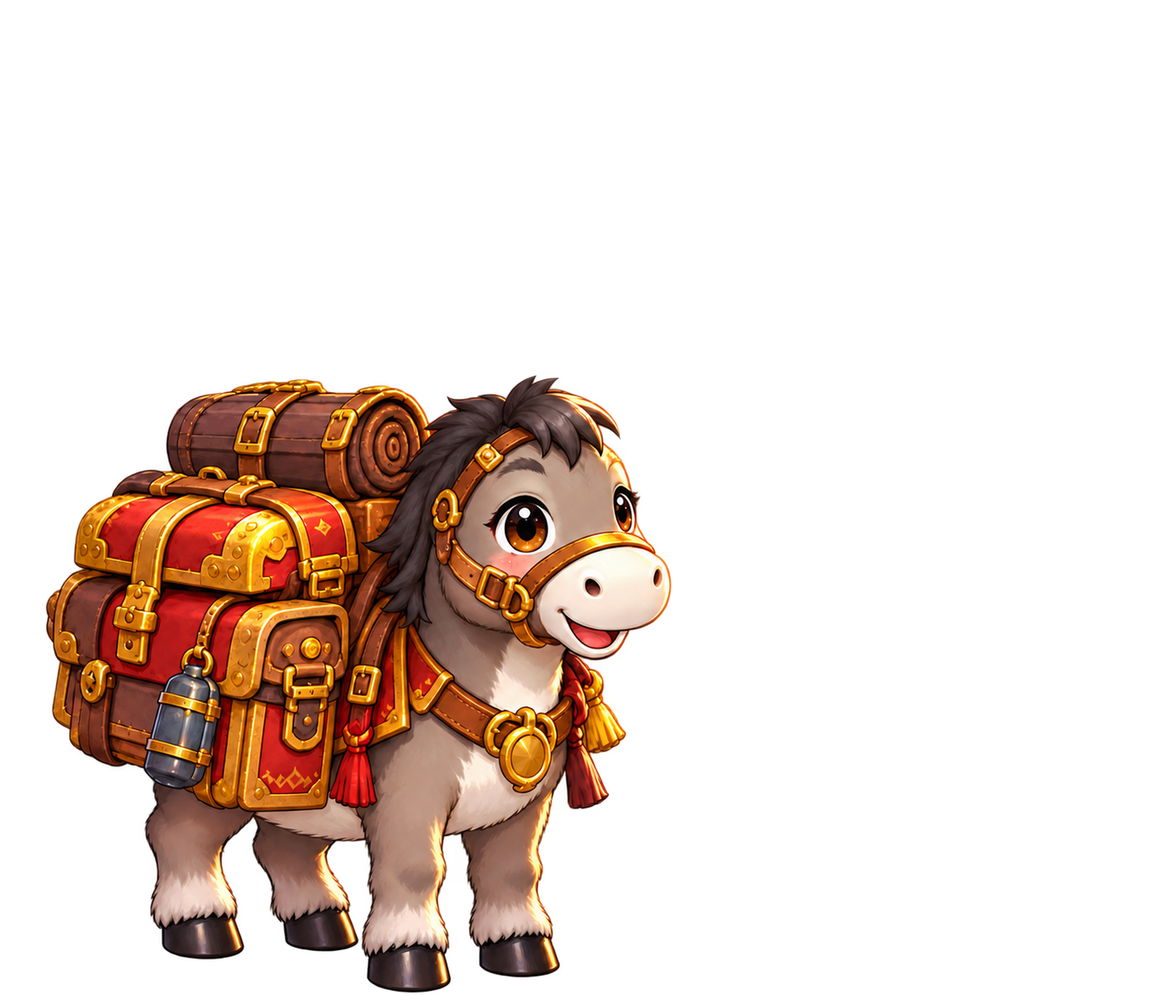
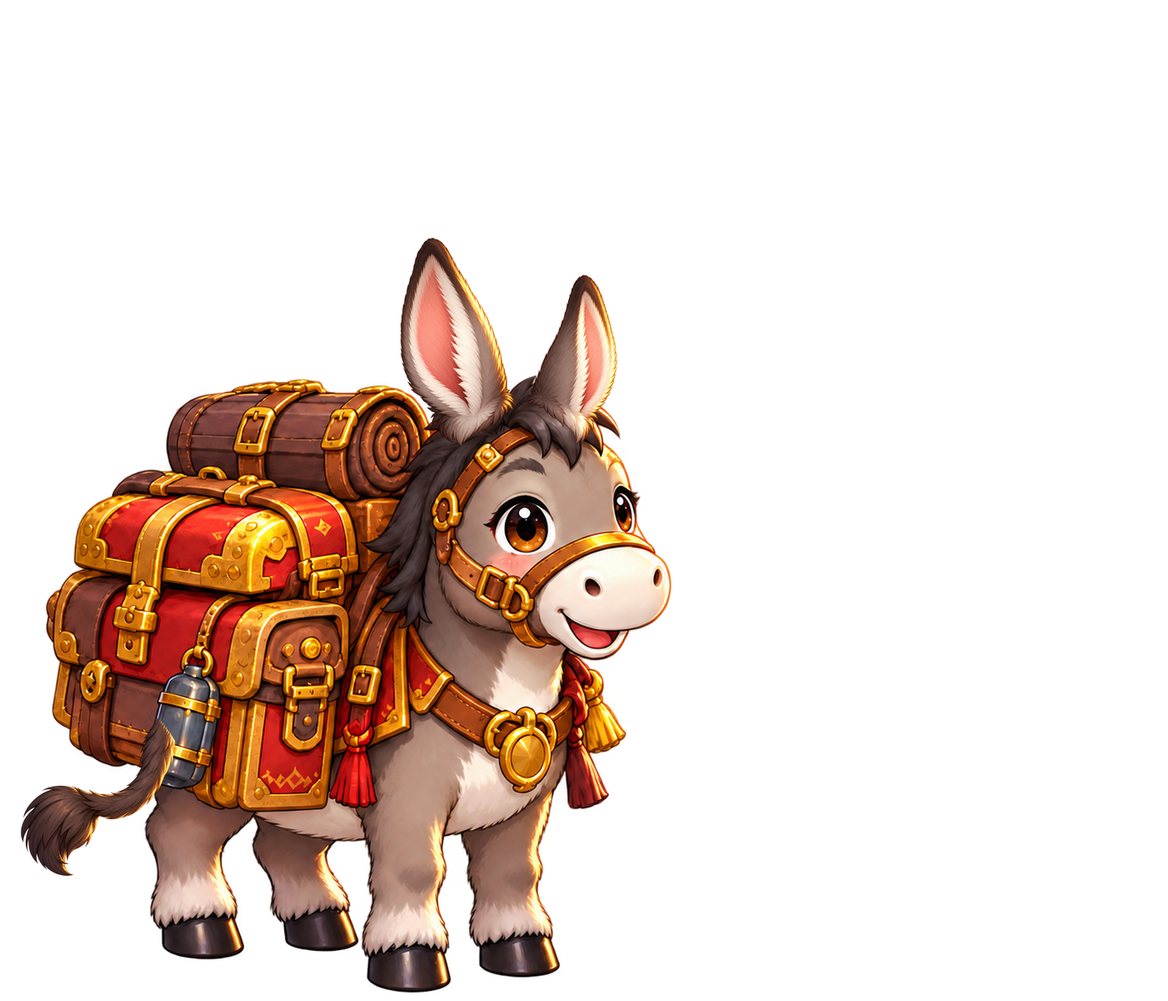
Show lobby keepers whole, add floor shadows and polished name plates
Keepers and animals are now one breathing figure each: the cut-out arms
looked broken when they turned. The forge loses its flickering fire.
Every station casts a blurred shadow of its outline plus a contact
shadow, name plates become gold-framed blue enamel, and an optional
tileable floor.webp can replace the blurry painted floor.

Claude-Session: https://claude.ai/code/session_01AABfKSSStXUw7TeHMfREWi

Changed region(s): [[0.3379, 0.2467, 0.5529, 0.4625], [0.0, 0.7092, 0.1536, 0.8942]]

diff --git a/src/game/lobbyWorld.ts b/src/game/lobbyWorld.ts
@@ -23,43 +23,48 @@ const BRONZE:Theme={glow:'#ff8a3d',core:'#ffe0c2',metal:['#ffd9a8','#d08a4a','#7
 /**
  * Stations on the plaza. Each one is a folder in /assets/lobby/<dir>/ of layers
  * exported on the SAME transparent canvas (feet at the bottom centre), like PSD
- * layers, drawn in order. Code moves each layer around its pivot (fractions of
- * the canvas), cut-out style: breathe = whole-body breathing, nod = head,
- * swing = hammer strike, wave = arm, sway = tail/ears/cloth, bob = floating
- * piece, blink = eyelids flashed briefly, flicker = fire. A missing layer is
+ * layers, drawn in order. Keepers and animals are whole figures that only
+ * breathe (moving limbs looked broken, 17/10); props may sway, bob or pulse around their pivot (fractions of the canvas). A missing layer is
  * skipped; with no layer at all the single `<dir>.png` is drawn breathing.
+ * Every station casts a shadow of its own outline onto the floor.
  *
  * Podiums carry `rank` and `stand`, the point on the canvas where the ranked
  * player's feet go (see LobbyWorld.podiums()).
  */
-type Motion='still'|'breathe'|'nod'|'swing'|'wave'|'sway'|'bob'|'blink'|'flicker'|'pulse';
+type Motion='still'|'breathe'|'sway'|'bob'|'pulse';
 type Layer={name:string;motion:Motion;pivot?:[number,number];period?:number;amount?:number;phase?:number};
 type Fallback={kind:'podium'|'gate';portal:Portal}|{kind:'keeper';outfit:'surfer'|'executive';hat:string;facing:1|-1};
-export type Station={id:string;title:string;dir:string;x:number;y:number;height:number;layers:Layer[];action?:LobbyAction;rank?:1|2|3;stand?:[number,number];glow?:Portal;spark?:[number,number];fallback:Fallback};
-const STRIKE=1500;
-// Pivots and spark points were measured on Codex's layers (17/10): canvases are
+export type Station={id:string;title:string;dir:string;x:number;y:number;height:number;layers:Layer[];action?:LobbyAction;rank?:1|2|3;stand?:[number,number];glow?:Portal;shadows?:Shadow[];fallback:Fallback};
+/** Contact shadow where a station touches the floor: centre x/y, radius x/y, as fractions of the canvas. */
+type Shadow=[number,number,number,number];
+// Pivots were measured on Codex's layers (17/10): canvases are
 // 1400×1200 for keepers and 1200×1400 for the gate and podiums.
 export const LOBBY_STATIONS:Station[]=[
- {id:'shop',title:'Ateliê',dir:'npc-loja',x:560,y:626,height:300,action:'shop',fallback:{kind:'keeper',outfit:'surfer',hat:'hat-tide',facing:1},layers:[
-  {name:'barraca',motion:'still'},{name:'toldo',motion:'sway',pivot:[.5,.13],period:2600,amount:.01},
-  {name:'corpo',motion:'breathe'},{name:'braco',motion:'wave',pivot:[.58,.67],period:1600,amount:.2},
-  {name:'cabeca',motion:'nod',pivot:[.5,.66],period:2800,amount:.035},{name:'olhos',motion:'blink'}]},
- {id:'storage',title:'Guarda-volumes',dir:'npc-armazem',x:1220,y:628,height:240,action:'storage',fallback:{kind:'keeper',outfit:'surfer',hat:'hat-cap',facing:1},layers:[
-  {name:'burro',motion:'breathe',period:3400},{name:'rabo',motion:'sway',pivot:[.14,.74],period:900,amount:.22},{name:'orelhas',motion:'sway',pivot:[.43,.44],period:2600,amount:.06},
-  {name:'corpo',motion:'breathe'},{name:'braco',motion:'wave',pivot:[.8,.56],period:1300,amount:.28},{name:'cabeca',motion:'nod',pivot:[.7,.5],period:2600,amount:.04},{name:'olhos',motion:'blink',phase:1300}]},
+ {id:'shop',title:'Ateliê',dir:'npc-loja',x:560,y:626,height:300,action:'shop',shadows:[[.5,.95,.5,.05],[.51,.99,.09,.02]],fallback:{kind:'keeper',outfit:'surfer',hat:'hat-tide',facing:1},layers:[
+  {name:'barraca',motion:'still'},{name:'npc',motion:'breathe'}]},
+ {id:'storage',title:'Guarda-volumes',dir:'npc-armazem',x:1220,y:628,height:240,action:'storage',shadows:[[.31,.99,.21,.03],[.73,.99,.12,.025]],fallback:{kind:'keeper',outfit:'surfer',hat:'hat-cap',facing:1},layers:[
+  {name:'burro',motion:'breathe',period:3400},{name:'npc',motion:'breathe'}]},
  // All podium canvases share one scale, so they share one height; `stand` is the centre of each top.
  ...([[2,2040,616,[.5,.66],SILVER],[1,2304,608,[.5,.49],GOLD],[3,2568,620,[.5,.75],BRONZE]] as const).map(([rank,x,y,stand,theme]):Station=>({
-  id:`podium-${rank}`,title:`${rank}º lugar`,dir:`podio-${rank}`,x,y,height:300,rank,stand:[stand[0],stand[1]],glow:{x,y:y-300*(1-stand[1])+40,scale:.8,theme},
+  id:`podium-${rank}`,title:`${rank}º lugar`,dir:`podio-${rank}`,x,y,height:300,rank,shadows:[[.5,.985,.4,.035]],stand:[stand[0],stand[1]],glow:{x,y:y-300*(1-stand[1])+40,scale:.8,theme},
   fallback:{kind:'podium',portal:{x,y,scale:1,theme}},layers:[{name:'base',motion:'still'},{name:'brilho',motion:'pulse'}]})),
- {id:'arena',title:'Arena PvP',dir:'portal-arena',x:2980,y:618,height:360,action:'arena',glow:{x:2980,y:600,scale:1.1,theme:BLUE},fallback:{kind:'gate',portal:{x:2980,y:600,scale:1.1,theme:BLUE,wings:true}},layers:[
+ {id:'arena',title:'Arena PvP',dir:'portal-arena',x:2980,y:618,height:360,action:'arena',shadows:[[.5,.985,.44,.04]],glow:{x:2980,y:600,scale:1.1,theme:BLUE},fallback:{kind:'gate',portal:{x:2980,y:600,scale:1.1,theme:BLUE,wings:true}},layers:[
   {name:'base',motion:'still'},{name:'asas',motion:'sway',pivot:[.5,.45],period:1700,amount:.03},{name:'calice',motion:'bob',period:2400,amount:8}]},
- {id:'forge',title:'Ferreiro',dir:'npc-ferreiro',x:3720,y:632,height:300,action:'forge',spark:[.2,.67],fallback:{kind:'keeper',outfit:'executive',hat:'hat-cap',facing:-1},layers:[
-  {name:'barraca',motion:'still'},{name:'fogo',motion:'flicker',pivot:[.81,.63]},
-  {name:'corpo',motion:'breathe'},{name:'cabeca',motion:'nod',pivot:[.52,.55],period:STRIKE,amount:.03},{name:'braco',motion:'swing',pivot:[.42,.64],period:STRIKE},{name:'olhos',motion:'blink',phase:700}]},
+ {id:'forge',title:'Ferreiro',dir:'npc-ferreiro',x:3720,y:632,height:300,action:'forge',shadows:[[.5,.95,.5,.05],[.48,.99,.15,.025]],fallback:{kind:'keeper',outfit:'executive',hat:'hat-cap',facing:-1},layers:[
+  {name:'barraca',motion:'still'},
+  {name:'npc',motion:'breathe'}]},
 ];
-/** Hammer arm, drawn raised: a small wind-up, a fast blow down onto the anvil, a short hold, then back. */
-const BLOW=.58;
-function strike(t:number,period:number){const k=(t%period)/period;if(k<.5)return .15*Math.sin(k/.5*Math.PI/2);if(k<BLOW)return .15-(k-.5)/(BLOW-.5)*1.05;if(k<.68)return -.9;return -.9*(1-(k-.68)/.32);}
+
+/** Where the painted floor starts under the balustrade's curb; floor tile width, its depth at the bottom (fraction of width) and at the far edge (fraction of that). */
+const FLOOR_TOP=548,FLOOR_TILE=300,FLOOR_NEAR=.62,FLOOR_FAR=.3;
+/** Cast shadows lie on the floor squashed to this height and lean left by CAST_LEAN per unit of height. */
+const CAST_SQUASH=.22,CAST_LEAN=.55,CAST_PAD=.06;
+/** Soft oval shadow on the plaza floor, darkest under the middle. */
+function groundShadow(c:CanvasRenderingContext2D,x:number,y:number,rx:number,ry:number){
+ c.save();c.translate(x,y);c.scale(1,ry/rx);
+ const g=c.createRadialGradient(0,0,0,0,0,rx);g.addColorStop(0,'rgba(60,40,20,.55)');g.addColorStop(.6,'rgba(60,40,20,.34)');g.addColorStop(1,'rgba(60,40,20,0)');
+ c.fillStyle=g;c.beginPath();c.arc(0,0,rx,0,Math.PI*2);c.fill();c.restore();
+}
 
 export interface LobbySprite {y:number;draw:(c:CanvasRenderingContext2D)=>void;}
 
@@ -327,10 +332,13 @@ export class LobbyWorld {
  private sky:HTMLCanvasElement;private world:HTMLCanvasElement;private plaza=new Image();
  /** True once the painted panorama has loaded. */
  painted=false;
- private art=new Map<string,HTMLImageElement>();private layers=new Map<string,HTMLImageElement>();
+ private art=new Map<string,HTMLImageElement>();private layers=new Map<string,HTMLImageElement>();private casts=new Map<string,HTMLCanvasElement>();
+ private floor=new Image();private floorCanvas:HTMLCanvasElement|null=null;
  constructor(density=2){
   this.sky=this.layer(density,paintSky);this.world=this.layer(density,paintWorld);
   this.plaza.onload=()=>{this.painted=true;};this.plaza.src='/assets/lobby/plaza.webp';
+  // Optional floor texture laid over the painted floor; see docs/lobby-art-prompts.md.
+  this.floor.src='/assets/lobby/floor.webp';
   for(const station of LOBBY_STATIONS){
    const image=new Image();image.src=`/assets/lobby/${station.dir}.png`;this.art.set(station.id,image);
    for(const layer of station.layers){const part=new Image();part.src=`/assets/lobby/${station.dir}/${layer.name}.png`;this.layers.set(`${station.dir}/${layer.name}`,part);}
@@ -339,6 +347,31 @@ export class LobbyWorld {
  private layer(density:number,paint:(c:CanvasRenderingContext2D)=>void){const canvas=document.createElement('canvas');canvas.width=LOBBY_W*density;canvas.height=LOBBY_H*density;const c=canvas.getContext('2d')!;c.scale(density,density);c.lineCap='round';c.lineJoin='round';paint(c);return canvas;}
  private loaded(station:Station){return station.layers.map(layer=>({layer,image:this.layers.get(`${station.dir}/${layer.name}`)!})).filter(({image})=>image.complete&&image.naturalWidth>0);}
  private hasArt(station:Station){const single=this.art.get(station.id)!;return this.loaded(station).length>0||(single.complete&&single.naturalWidth>0);}
+ /**
+  * The plaza floor across the whole width, built once from the tileable
+  * top-down `floor.webp`: rows get shallower toward the balustrade so the
+  * stones recede, and the far edge gets a curb shadow and a light haze. Widths
+  * stay constant: the camera pans sideways, so there is no single vanishing
+  * point to converge on.
+  */
+ private floorBand(){
+  if(this.floorCanvas)return this.floorCanvas;
+  if(!this.floor.complete||!this.floor.naturalWidth)return null;
+  const d=2,W=LOBBY_WIDTH*d,H=(LOBBY_H-FLOOR_TOP)*d,canvas=document.createElement('canvas');canvas.width=W;canvas.height=H;
+  const c=canvas.getContext('2d')!,pattern=c.createPattern(this.floor,'repeat')!,tex=this.floor.naturalWidth;
+  // Tile depth on screen grows linearly from the far edge to the bottom, as on a floor seen at an angle.
+  const across=FLOOR_TILE*d/tex,near=FLOOR_TILE*d*FLOOR_NEAR,far=near*FLOOR_FAR,grow=(near-far)/H;
+  let v=0;
+  for(let y=0;y<H;y++){
+   const deep=(far+grow*y)/tex;
+   pattern.setTransform(new DOMMatrix([across,0,0,deep,0,y-v*deep]));
+   c.fillStyle=pattern;c.fillRect(0,y,W,1);
+   v+=1/deep;
+  }
+  const curb=c.createLinearGradient(0,0,0,26*d);curb.addColorStop(0,'rgba(60,40,20,.35)');curb.addColorStop(1,'rgba(60,40,20,0)');c.fillStyle=curb;c.fillRect(0,0,W,26*d);
+  const haze=c.createLinearGradient(0,0,0,H*.5);haze.addColorStop(0,'rgba(255,248,225,.28)');haze.addColorStop(1,'rgba(255,248,225,0)');c.fillStyle=haze;c.fillRect(0,0,W,H*.5);
+  this.floorCanvas=canvas;return canvas;
+ }
  /** Camera x that keeps `focusX` centred without showing past the plaza's ends. */
  static camera(focusX:number){return Math.max(0,Math.min(LOBBY_WIDTH-LOBBY_W,focusX-LOBBY_W/2));}
  /** Draws the backdrop in world coordinates; the caller has already translated by -camX. */
@@ -347,6 +380,8 @@ export class LobbyWorld {
    // Height fits the view; a panorama narrower than the plaza repeats.
    const k=LOBBY_H/this.plaza.naturalHeight,tile=this.plaza.naturalWidth*k;
    for(let x0=Math.floor(camX/tile)*tile;x0<camX+LOBBY_W;x0+=tile){const from=Math.max(camX,x0),to=Math.min(camX+LOBBY_W,x0+tile);c.drawImage(this.plaza,(from-x0)/k,0,(to-from)/k,this.plaza.naturalHeight,from,0,to-from,LOBBY_H);}
+   const floor=this.floorBand();
+   if(floor){const d=floor.width/LOBBY_WIDTH;c.drawImage(floor,camX*d,0,LOBBY_W*d,floor.height,camX,FLOOR_TOP,LOBBY_W,LOBBY_H-FLOOR_TOP);}
    return;
   }
   for(let x0=Math.floor(camX/LOBBY_W)*LOBBY_W;x0<camX+LOBBY_W;x0+=LOBBY_W){
@@ -389,6 +424,22 @@ export class LobbyWorld {
  drawOverlay(c:CanvasRenderingContext2D,t:number){
   for(let i=0;i<22;i++){const x=(i*137+t*.014)%LOBBY_W,y=140+(i*71)%560+Math.sin(t/1300+i)*15;c.fillStyle=`rgba(255,255,230,${.25+Math.sin(t/800+i)*.18})`;c.beginPath();c.arc(x,y,1.5+i%2,0,Math.PI*2);c.fill();}
  }
+ /**
+  * The station's outline as a blurred dark shape, built once its art has loaded.
+  * Drawn squashed onto the floor and leaning left, away from the light.
+  */
+ private cast(station:Station,parts:{layer:Layer;image:HTMLImageElement}[]){
+  if(this.casts.has(station.id))return this.casts.get(station.id)!;
+  const solid=parts.filter(({layer})=>layer.motion==='still'||layer.motion==='breathe');
+  if(!solid.length||solid.length<station.layers.filter(l=>l.motion==='still'||l.motion==='breathe').length)return null;
+  const img=solid[0].image,k=.25,w=img.naturalWidth*k,h=img.naturalHeight*k,pw=w*CAST_PAD,ph=h*CAST_PAD;
+  const shape=document.createElement('canvas');shape.width=w+2*pw;shape.height=h+2*ph;const s=shape.getContext('2d')!;
+  for(const {image} of solid)s.drawImage(image,pw,ph,w,h);
+  s.globalCompositeOperation='source-in';s.fillStyle='#3a2410';s.fillRect(0,0,shape.width,shape.height);
+  const blurred=document.createElement('canvas');blurred.width=shape.width;blurred.height=shape.height;const b=blurred.getContext('2d')!;
+  b.filter='blur(5px)';b.drawImage(shape,0,0);
+  this.casts.set(station.id,blurred);return blurred;
+ }
  private box(station:Station):[number,number,number,number]{
   const image=this.loaded(station)[0]?.image??this.art.get(station.id)!,ratio=image.naturalWidth?image.naturalWidth/image.naturalHeight:.8,half=station.height*ratio/2*.8;
   return [station.x-half,station.y-station.height,station.x+half,station.y+12];
@@ -406,25 +457,21 @@ export class LobbyWorld {
   }
   const h=station.height,w=h*base.naturalWidth/base.naturalHeight,left=station.x-w/2,top=station.y-h;
   const breath=(period=3000)=>1+Math.sin(t/period*Math.PI*2)*.012;
+  const cast=this.cast(station,parts);
+  if(cast){c.save();c.translate(station.x,station.y);c.transform(1,0,CAST_LEAN,CAST_SQUASH,0,0);c.globalAlpha=.5;c.drawImage(cast,-w/2-CAST_PAD*w,-h-CAST_PAD*h,w*(1+2*CAST_PAD),h*(1+2*CAST_PAD));c.restore();}
+  for(const [sx,sy,rx,ry] of station.shadows??[])groundShadow(c,left+sx*w,top+sy*h,rx*w,ry*h);
   c.save();if(hover)c.filter='brightness(1.12) drop-shadow(0 0 10px #fff2a0)';
   if(!parts.length){c.translate(station.x,station.y);c.scale(1,station.glow?1:breath());c.drawImage(base,-w/2,-h,w,h);}
   else for(const {layer,image} of parts){
    const period=layer.period??3000,phase=(layer.phase??0)+station.x*3,amount=layer.amount,[px,py]=layer.pivot??[.5,1],ax=left+px*w,ay=top+py*h;
-   if(layer.motion==='blink'&&(t+phase)%3600>130)continue;
    c.save();
-   // Everything above the feet breathes with the body, so heads and arms stay attached.
-   if(layer.motion!=='still'&&layer.motion!=='bob'&&layer.motion!=='flicker'&&layer.motion!=='pulse'){c.translate(station.x,station.y);c.scale(1,breath(layer.motion==='breathe'?period:3000));c.translate(-station.x,-station.y);}
-   if(layer.motion==='nod'){c.translate(ax,ay);c.rotate(Math.sin((t+phase)/period*Math.PI*2)*(amount??.03));c.translate(-ax,-ay);}
-   else if(layer.motion==='swing'){c.translate(ax,ay);c.rotate(strike(t,period));c.translate(-ax,-ay);}
-   else if(layer.motion==='wave'||layer.motion==='sway'){c.translate(ax,ay);c.rotate(Math.sin((t+phase)/period*Math.PI*2)*(amount??.1));c.translate(-ax,-ay);}
+   if(layer.motion==='breathe'){c.translate(station.x,station.y);c.scale(1,breath(period));c.translate(-station.x,-station.y);}
+   else if(layer.motion==='sway'){c.translate(ax,ay);c.rotate(Math.sin((t+phase)/period*Math.PI*2)*(amount??.1));c.translate(-ax,-ay);}
    else if(layer.motion==='bob')c.translate(0,Math.sin((t+phase)/period*Math.PI*2)*(amount??6));
    else if(layer.motion==='pulse'){c.globalCompositeOperation='lighter';c.globalAlpha=.55+Math.sin((t+phase)/700)*.35;}
-   else if(layer.motion==='flicker'){const f=1+Math.sin(t/90)*.04+Math.sin(t/37)*.03;c.translate(ax,ay+h*.08);c.scale(1/f,f);c.translate(-ax,-ay-h*.08);c.globalAlpha=.9+Math.sin(t/60)*.1;}
    c.drawImage(image,left,top,w,h);c.restore();
   }
   c.restore();
-  // Sparks fly from the anvil on each blow.
-  if(station.spark&&parts.some(({layer})=>layer.motion==='swing')){const k=((t%STRIKE)/STRIKE-BLOW)/.25;if(k>=0&&k<1){const sx=left+station.spark[0]*w,sy=top+station.spark[1]*h;c.save();c.globalCompositeOperation='lighter';for(let i=0;i<10;i++){const a=-Math.PI*(.15+.7*((i*37%10)/10)),d=k*(30+i*4);c.globalAlpha=1-k;c.fillStyle=i%2?'#ffe27a':'#ff9a3c';c.beginPath();c.arc(sx+Math.cos(a)*d,sy+Math.sin(a)*d+k*k*20,2.2,0,Math.PI*2);c.fill();}c.restore();}}
   if(station.glow)portalLight(c,station.glow,t,hover);
  }
  /** World coordinates in, interactive station out (podiums are not interactive yet). */
@@ -435,18 +482,31 @@ export class LobbyWorld {
  }
 }
 
-function title(c:CanvasRenderingContext2D,text:string,x:number,y:number,size:number){
- c.save();c.font=`900 ${size}px Nunito, "Trebuchet MS", sans-serif`;c.textAlign='center';c.textBaseline='middle';c.lineJoin='round';
- c.lineWidth=size*.32;c.strokeStyle='#1d3f74';c.strokeText(text,x,y);const g=c.createLinearGradient(0,y-size/2,0,y+size/2);g.addColorStop(0,'#ffffff');g.addColorStop(1,'#c9f1ff');c.fillStyle=g;c.fillText(text,x,y);c.restore();
+const FONT='Nunito, "Trebuchet MS", sans-serif';
+/** Polished gold lettering with a dark rim and a soft drop shadow. */
+function goldText(c:CanvasRenderingContext2D,text:string,x:number,y:number,size:number,rim:string){
+ c.save();c.font=`900 ${size}px ${FONT}`;c.textAlign='center';c.textBaseline='middle';c.lineJoin='round';
+ c.shadowColor='rgba(20,10,0,.55)';c.shadowBlur=size*.35;c.shadowOffsetY=size*.1;
+ c.lineWidth=size*.26;c.strokeStyle=rim;c.strokeText(text,x,y);c.shadowColor='transparent';
+ const g=c.createLinearGradient(0,y-size*.5,0,y+size*.5);g.addColorStop(0,'#fffbe6');g.addColorStop(.45,'#ffe28a');g.addColorStop(.55,'#f5b93a');g.addColorStop(1,'#fff0b0');
+ c.fillStyle=g;c.fillText(text,x,y);c.restore();
 }
+function title(c:CanvasRenderingContext2D,text:string,x:number,y:number,size:number){goldText(c,text,x,y,size,'#4a2408');}
+/** Name plate over a station: deep blue enamel in a gold frame, with gem studs at the ends. */
 function plaque(c:CanvasRenderingContext2D,text:string,x:number,y:number,big:boolean,hover:boolean){
- c.save();const s=big?1.12:.92,w=124*s,h=32*s;c.translate(x,y);if(hover)c.scale(1.08,1.08);
- c.strokeStyle='#5a2f12';c.lineWidth=2.5;
- // Little wings either side of the ribbon.
- for(const side of [-1,1]){c.fillStyle='#f6b93b';c.beginPath();c.moveTo(side*w/2.2,-6*s);c.quadraticCurveTo(side*(w/2+26*s),-22*s,side*(w/2+30*s),2*s);c.quadraticCurveTo(side*(w/2+16*s),0,side*(w/2+20*s),12*s);c.quadraticCurveTo(side*(w/2+4*s),8*s,side*w/2.2,10*s);c.closePath();c.fill();c.stroke();}
- const g=c.createLinearGradient(0,-h/2,0,h/2);g.addColorStop(0,'#fff2a8');g.addColorStop(.45,'#ffc23d');g.addColorStop(1,'#d9771c');c.fillStyle=g;roundRect(c,-w/2,-h/2,w,h,h/2);c.fill();c.stroke();
- c.strokeStyle='#fff7d0aa';c.lineWidth=1.5;roundRect(c,-w/2+4,-h/2+3,w-8,h-6,h/2-3);c.stroke();
- if(hover){c.shadowColor='#fff3a0';c.shadowBlur=14;}
- c.font=`900 ${Math.round(19*s)}px Nunito, "Trebuchet MS", sans-serif`;c.textAlign='center';c.textBaseline='middle';c.lineWidth=4;c.strokeStyle='#fff6cf';c.strokeText(text,0,1);c.fillStyle='#8a2a0e';c.fillText(text,0,1);
+ c.save();c.translate(x,y);const s=(big?1.1:.94)*(hover?1.06:1);c.scale(s,s);
+ const size=18;c.font=`900 ${size}px ${FONT}`;const w=Math.max(96,c.measureText(text).width+46),h=32,r=9;
+ c.shadowColor='rgba(15,20,40,.45)';c.shadowBlur=10;c.shadowOffsetY=4;
+ const rim=c.createLinearGradient(0,-h/2-3,0,h/2+3);rim.addColorStop(0,'#fff3b8');rim.addColorStop(.5,'#e0a02c');rim.addColorStop(1,'#8a5414');
+ c.fillStyle=rim;roundRect(c,-w/2-3,-h/2-3,w+6,h+6,r+3);c.fill();c.shadowColor='transparent';
+ const face=c.createLinearGradient(0,-h/2,0,h/2);face.addColorStop(0,hover?'#3c5fa8':'#2c4a8c');face.addColorStop(1,hover?'#1d2f66':'#152350');
+ c.fillStyle=face;roundRect(c,-w/2,-h/2,w,h,r);c.fill();
+ c.save();roundRect(c,-w/2,-h/2,w,h,r);c.clip();const gloss=c.createLinearGradient(0,-h/2,0,0);gloss.addColorStop(0,'rgba(255,255,255,.28)');gloss.addColorStop(1,'rgba(255,255,255,0)');c.fillStyle=gloss;c.fillRect(-w/2,-h/2,w,h/2);c.restore();
+ c.strokeStyle='rgba(255,226,140,.55)';c.lineWidth=1;roundRect(c,-w/2+3,-h/2+3,w-6,h-6,r-3);c.stroke();
+ for(const side of [-1,1]){const gx=side*(w/2+3);c.save();c.translate(gx,0);c.rotate(Math.PI/4);
+  c.fillStyle=rim;c.fillRect(-7,-7,14,14);const gem=c.createLinearGradient(-5,-5,5,5);gem.addColorStop(0,'#bff1ff');gem.addColorStop(1,'#1f7fd6');c.fillStyle=gem;c.fillRect(-4.5,-4.5,9,9);c.restore();}
+ if(hover){c.shadowColor='#ffe9a0';c.shadowBlur=12;}
+ c.textAlign='center';c.textBaseline='middle';c.lineJoin='round';c.lineWidth=4;c.strokeStyle='#0c1636';c.strokeText(text,0,1);
+ const g=c.createLinearGradient(0,-size/2,0,size/2);g.addColorStop(0,'#ffffff');g.addColorStop(1,'#ffe39a');c.fillStyle=g;c.fillText(text,0,1);
  c.restore();
 }

diff --git a/docs/lobby-art-prompts.md b/docs/lobby-art-prompts.md
@@ -3,7 +3,7 @@
 Pedidos do usuário, em ordem: lobby parecido com a foto de referência de lobby clássico de artilharia; a primeira versão por código ficou "simples, de jogo infantil"; a pintura gerada pelo Codex ficou no nível certo, mas com NPCs pintados. Decisões finais:
 
 - **Cenário vazio** em panorama e cada ponto de interação como camada separada, para poder adicionar NPCs no futuro.
-- **NPCs animados**, não PNG parado: cada NPC é recortado em partes que o código anima.
+- **NPCs inteiros** (mudança de 17/10, 03h30): braços animados ficaram com cara de quebrados, então cada NPC e cada animal é uma peça só que apenas respira. A forja ficou sem fogo animado.
 - Os três "portais" da referência são o **pódio do ranking PvP do dia (1º, 2º, 3º)**, com espaço para o boneco do jogador ficar em cima.
 - A praça tem **três telas de largura** e a câmera segue o jogador para os lados (clique ou setas/A-D), para caber mais NPCs.
 
@@ -24,7 +24,9 @@ Pedidos do usuário, em ordem: lobby parecido com a foto de referência de lobby
 | livre | 120–380 e 3950–4480 | NPCs futuros | — |
 
 - `LobbyWorld.podiums()` devolve onde ficam os pés do 1º, 2º e 3º colocados. Falta o servidor ter o ranking PvP do dia para desenhar os bonecos ali.
-- Animação por camadas: as partes de um NPC são exportadas no MESMO canvas transparente (pés no centro da borda inferior). O código move cada parte em volta de um pivô: respirar, cabeça, martelada com faíscas, aceno, rabo/orelhas/toldo, flutuar, piscar, fogo. Pivôs são ajustados quando a arte chega. Sem arte, o jogo usa um desenho provisório por código.
+- Camadas: barraca (parada) e NPC inteiro (respira) no MESMO canvas transparente, pés no centro da borda inferior. Portal e pódios ainda têm brilho, asas e emblema flutuando. Sem arte, o jogo usa um desenho provisório por código.
+- Sombras: cada estação projeta o próprio contorno no chão (achatado e inclinado para a esquerda, luz vinda da direita) e tem sombra de contato onde toca o piso (`shadows` em `LOBBY_STATIONS`).
+- Piso: se existir `public/assets/lobby/floor.webp`, o código cobre o piso pintado com essa textura em perspectiva a partir de y 548 (`FLOOR_TOP`). Sem o arquivo, fica o piso do panorama.
 - Novo NPC = uma pasta de camadas + uma linha em `LOBBY_STATIONS` (+ a ação em `App.tsx`).
 - Verificação: `node scripts/shot-lobby.mjs <pasta>` com Vite e servidor ligados (prévia, câmera andando com as setas, porta da Arena, caminhada até o Ferreiro).
 
@@ -53,4 +55,15 @@ npc-armazem/: burro.png (burrinho com baús, sem rabo e sem orelhas), rabo.png, 
 npc-ferreiro/: barraca.png (barraca de madeira, bigorna e braseiro SEM fogo), fogo.png (só as chamas), corpo.png (ferreiro forte e barbudo, avental de couro, sem cabeça e sem o braço direito), cabeca.png, braco.png (braço direito com martelo grande, levemente erguido), olhos.png.
 portal-arena/: base.png (grande portal/arco da Arena PvP sobre plataforma de mármore com runas azuis), calice.png (emblema de cristal azul flutuando no centro do arco), asas.png (par de asas de prata do emblema).
 podio-1/, podio-2/, podio-3/: pódio do ranking PvP do dia. 1º o mais alto, ouro com coroa e louros; 2º médio, prata com safira; 3º mais baixo, bronze com rubi. Cada pódio é um pedestal ornamentado com o TOPO PLANO E VAZIO, onde um personagem vai ficar de pé (deixe espaço livre acima do topo). base.png = o pódio; brilho.png = só o brilho mágico em volta do topo. Sem números, sem texto, sem personagem.
+```
+
+## Prompt do piso para o Codex
+
+O piso do panorama saiu borrado (foi ampliado). Em vez de repintar o panorama, o jogo desenha uma textura de piso repetida, sem ampliação.
+
+```
+Gere só uma imagem e salve em public/assets/lobby/floor.webp. Não altere código e não faça commit.
+Textura de piso de praça, vista DE CIMA (top-down, sem perspectiva), 1024x1024, SEM EMENDA nas quatro bordas (tileable: a borda esquerda continua na direita e a de cima na de baixo).
+Lajotas de pedra clara (creme e bege quente, alguns tons de areia e marfim) em padrão de lajes retangulares desencontradas, 4 fileiras por 4 colunas, rejunte fino dourado-acinzentado, leve musgo verde em poucos rejuntes, pequenas lascas e textura de pedra polida, acabamento pintado à mão no mesmo estilo de anime vibrante do panorama.
+Iluminação uniforme e plana: sem sombra projetada, sem vinheta, sem brilho forte de um lado, para a repetição não aparecer. Sem objetos, sem texto, sem personagens. Nitidez alta (não ampliar de imagem menor).
 ```

diff --git a/docs/implementation-status.md b/docs/implementation-status.md
@@ -7,6 +7,7 @@
 - Fundo pintado por código é só reserva (usuário achou simples/infantil); a arte final é uma pintura única em `public/assets/lobby/plaza.webp`, que substitui o cenário e os NPCs-boneco. Prompts e mapa de cliques em [lobby-art-prompts.md](lobby-art-prompts.md). Verificação: `scripts/shot-lobby.mjs`.
 
 - Atualização 17/10 02h: praça com **três telas de largura** (`shared/lobby.ts`, 4608 px) e câmera seguindo o jogador (clique ou setas/A-D). Portais viraram o **pódio do ranking PvP do dia** (1º/2º/3º, `LobbyWorld.podiums()` pronto para os bonecos), porta da Arena PvP e NPCs animados por camadas recortadas. Ferreiro em x 3720 (`SMITH_POSITION` 3640, 640). Prompt e mapa das estações em [lobby-art-prompts.md](lobby-art-prompts.md).
+- Atualização 17/10 03h30: NPCs e animais viraram figuras inteiras que só respiram (braços animados pareciam quebrados), forja sem fogo animado, sombra do contorno de cada estação no chão, placas de nome em esmalte azul com moldura dourada e suporte a `floor.webp` para trocar o piso borrado.
 
 ## Salão PvP e sala no padrão da mochila — 17/10/2026
 
